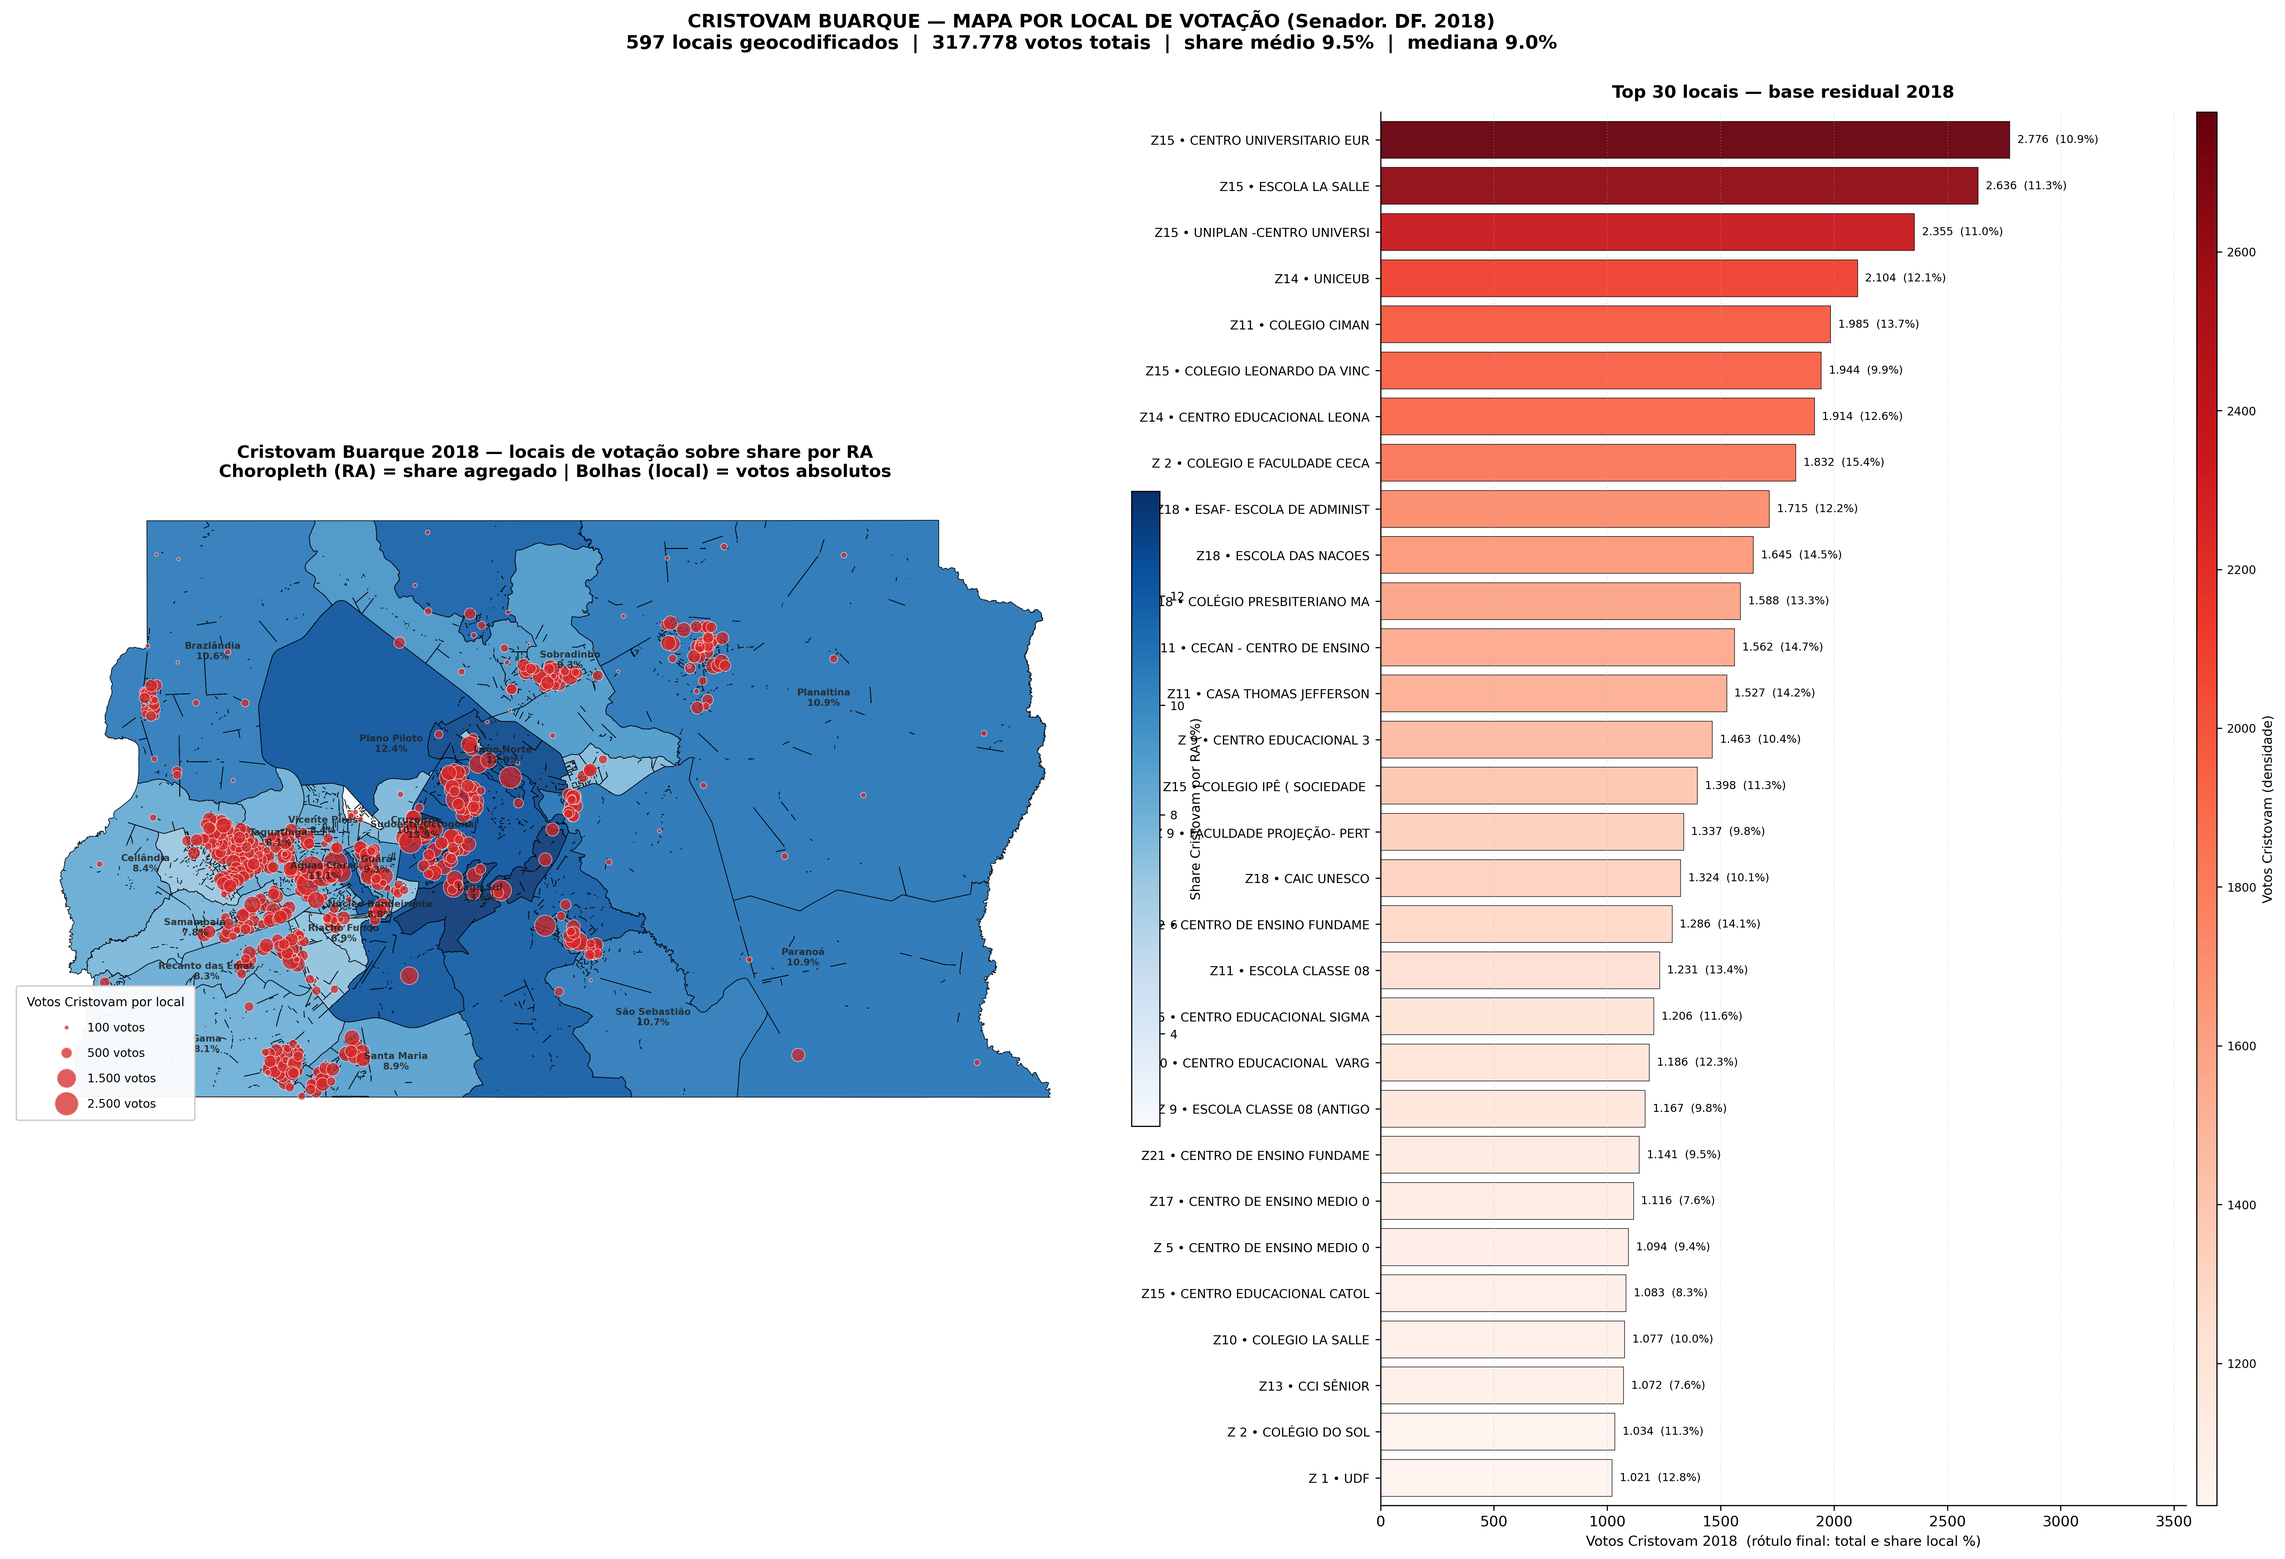
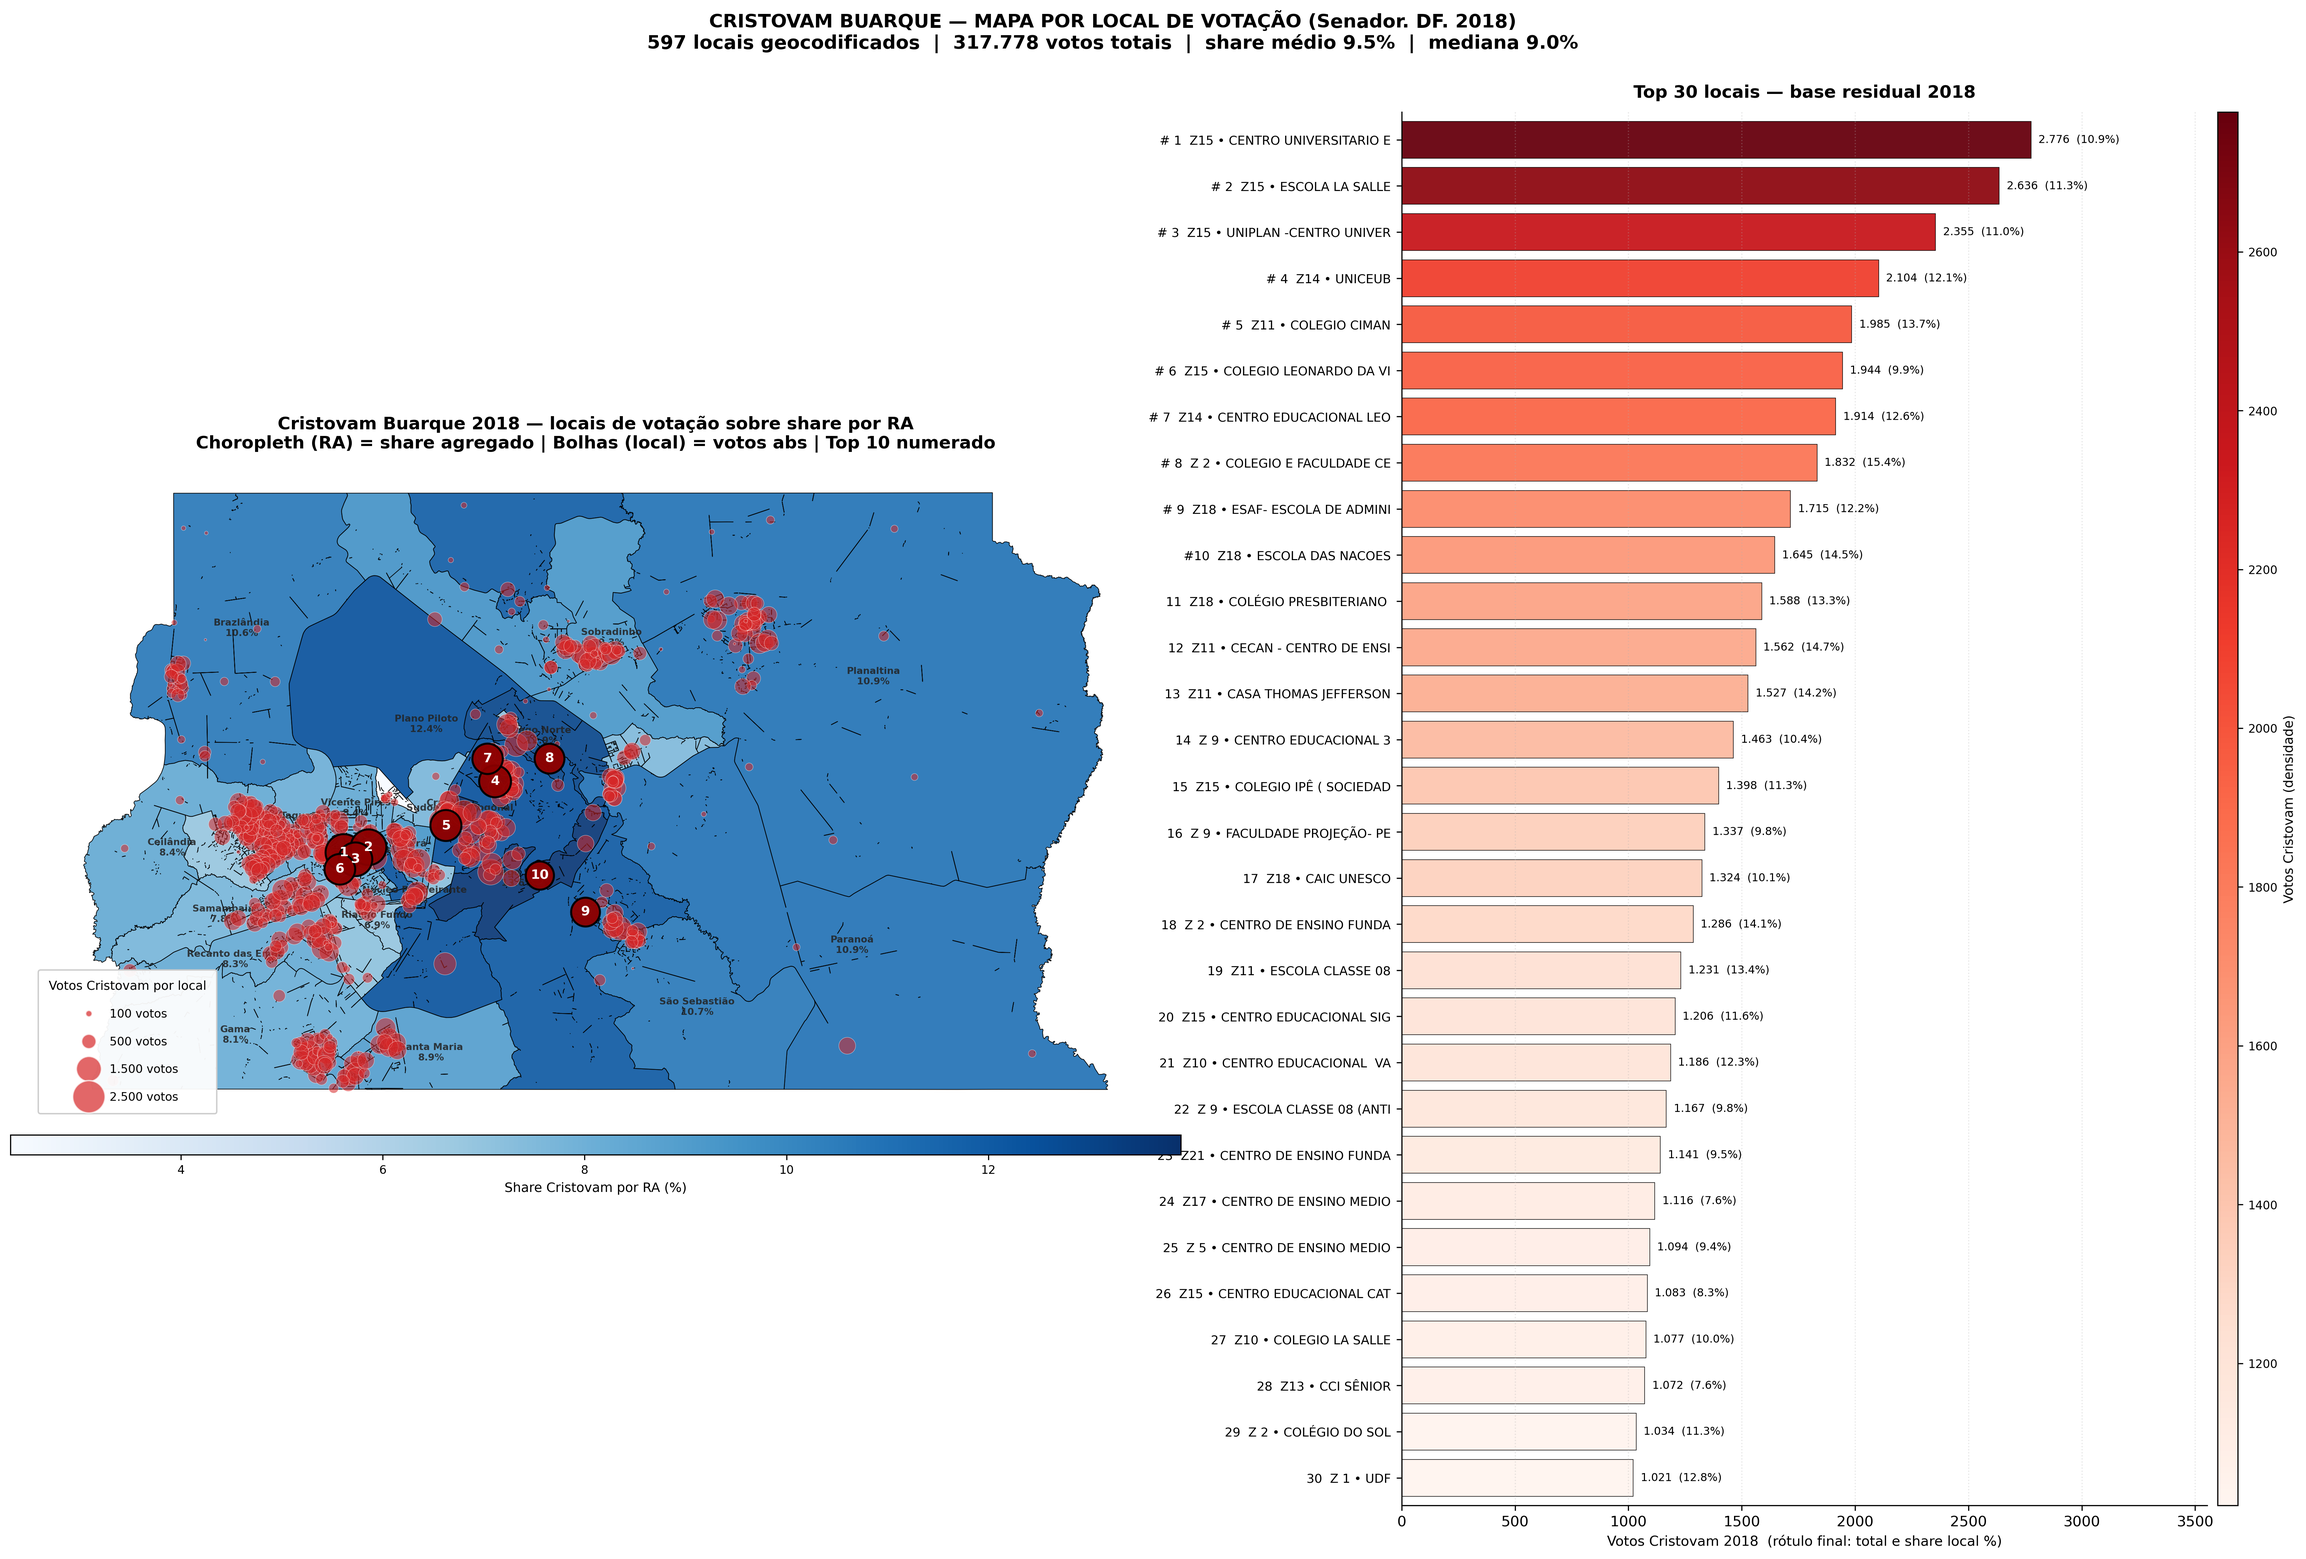
fix(cristovam): mover colorbar do mapa pro rodape + destacar top10
Problema reportado: colorbar vertical "Share Cristovam por RA" se
sobrepunha aos labels do ranking; bolhas todas com mesmo destaque
visual nao deixavam clara a concentracao do voto.

Mudancas:
- Colorbar do choropleth do mapa agora HORIZONTAL no rodape via
  divider.append_axes("bottom", ...). Libera a regiao a direita
  do mapa, sem competir com os labels do ranking.
- Escala de bolhas mais agressiva (max 650pt², era 280).
- Top 10 locais por voto absoluto: bolha em vermelho-escuro
  (#8b0000), contorno preto grosso, numero 1-10 em branco.
- Ranking top30 prefixado com "#1" a "#10" para o leitor casar
  visualmente bolha numerada -> linha do ranking.

diff --git a/src/casos/cristovam/mapa_locais_cristovam.py b/src/casos/cristovam/mapa_locais_cristovam.py
@@ -212,44 +212,68 @@ def main() -> None:
                 color="#222", fontweight="bold", alpha=0.85,
             )
 
-    # Bolhas (locais) em vermelho — tamanho = votos absolutos
-    gdf["_size"] = np.clip(gdf["votos_cristovam"] / 8, 5, 280)
+    # Bolhas (locais) — escala mais agressiva, top destacado.
+    # Linear no número de votos (visualmente proporcional à massa real).
+    SIZE_SCALE = 1 / 5     # 2776 votos -> 555 pts²;  100 votos -> 20
+    SIZE_MIN, SIZE_MAX = 3, 650
+    gdf["_size"] = np.clip(gdf["votos_cristovam"] * SIZE_SCALE,
+                           SIZE_MIN, SIZE_MAX)
+
+    # Bolhas comuns — todas as 597 com baixa saturação
     ax_map.scatter(
         gdf["lon"], gdf["lat"], s=gdf["_size"],
-        facecolor="#d62728", edgecolor="white", linewidth=0.4, alpha=0.75,
+        facecolor="#d62728", edgecolor="white", linewidth=0.3, alpha=0.55,
+        zorder=3,
     )
+
+    # Top 10 destacadas — contorno preto grosso e número
+    TOP_N = 10
+    top_locais = gdf.nlargest(TOP_N, "votos_cristovam").reset_index(drop=True)
+    ax_map.scatter(
+        top_locais["lon"], top_locais["lat"],
+        s=top_locais["_size"] * 1.15,
+        facecolor="#8b0000", edgecolor="black", linewidth=1.4, alpha=0.95,
+        zorder=4,
+    )
+    for i, r in top_locais.iterrows():
+        ax_map.text(
+            r.lon, r.lat, str(i + 1),
+            ha="center", va="center", fontsize=9, fontweight="bold",
+            color="white", zorder=5,
+        )
 
     ax_map.set_title(
         f"Cristovam Buarque 2018 — locais de votação sobre share por RA\n"
-        f"Choropleth (RA) = share agregado | Bolhas (local) = votos absolutos",
+        f"Choropleth (RA) = share agregado | Bolhas (local) = votos abs | "
+        f"Top {TOP_N} numerado",
         fontsize=12, fontweight="bold", pad=10,
     )
     ax_map.set_axis_off()
 
-    # Colorbar do choropleth pinada à direita do mapa
+    # Colorbar do choropleth — RODAPÉ do mapa (horizontal), não invade ranking
     divider = make_axes_locatable(ax_map)
-    cax = divider.append_axes("right", size="2.5%", pad=0.1,
+    cax = divider.append_axes("bottom", size="3%", pad=0.15,
                               axes_class=plt.Axes)
     sm = ScalarMappable(cmap=cmap, norm=norm)
     sm.set_array([])
-    cb = fig.colorbar(sm, cax=cax)
+    cb = fig.colorbar(sm, cax=cax, orientation="horizontal")
     cb.set_label("Share Cristovam por RA (%)", fontsize=9)
     cb.ax.tick_params(labelsize=8)
 
-    # Legenda de tamanhos das bolhas — caixa flutuante no canto inferior
-    # esquerdo do mapa, sem cobrir o Plano Piloto (centro-leste)
+    # Legenda de tamanhos das bolhas — canto inferior esquerdo do mapa
     sizes_demo = [100, 500, 1500, 2500]
     handles_size = [
         Line2D([], [], marker="o", linestyle="",
                markerfacecolor="#d62728", markeredgecolor="white",
-               markersize=np.sqrt(np.clip(v / 8, 5, 280)),
-               alpha=0.75, label=f"{v:,} votos".replace(",", "."))
+               markersize=np.sqrt(np.clip(v * SIZE_SCALE,
+                                          SIZE_MIN, SIZE_MAX)),
+               alpha=0.7, label=f"{v:,} votos".replace(",", "."))
         for v in sizes_demo
     ]
     ax_map.legend(
         handles=handles_size, loc="lower left", fontsize=8,
         title="Votos Cristovam por local", title_fontsize=8.5,
-        framealpha=0.95, labelspacing=1.2, borderpad=0.9,
+        framealpha=0.95, labelspacing=1.4, borderpad=0.9,
     )
 
     # ----- RANKING top 30 -----
@@ -262,11 +286,15 @@ def main() -> None:
     norm_bar = Normalize(vmin=vmin_bar, vmax=vmax_bar)
     cores_bar = [cmap_bar(norm_bar(v)) for v in top30["votos_cristovam"]]
 
-    # Labels curtos: "Z15 • UNIEURO" (truncado a 24 chars no nome do local)
-    labels = [
-        f"Z{int(r.NR_ZONA):>2} • {str(r.nome)[:24]}"
-        for _, r in top30.iterrows()
-    ]
+    # Labels curtos com numeração (top 10 numerados pra casar com bolhas
+    # destacadas no mapa). top30 está em ordem crescente (smallest no
+    # topo do barh por causa do iloc[::-1]); número de ranking é
+    # (len(top30) - i) — ou seja, o último elemento iterado é o #1.
+    labels = []
+    for i, (_, r) in enumerate(top30.iterrows()):
+        rank = len(top30) - i  # 1 = maior; 30 = menor
+        prefixo = f"#{rank:>2}  " if rank <= TOP_N else f" {rank:>2}  "
+        labels.append(f"{prefixo}Z{int(r.NR_ZONA):>2} • {str(r.nome)[:22]}")
     ax_rank.barh(range(len(top30)), top30["votos_cristovam"],
                  color=cores_bar, edgecolor="black", linewidth=0.4, alpha=0.95)
     ax_rank.set_yticks(range(len(top30)))
